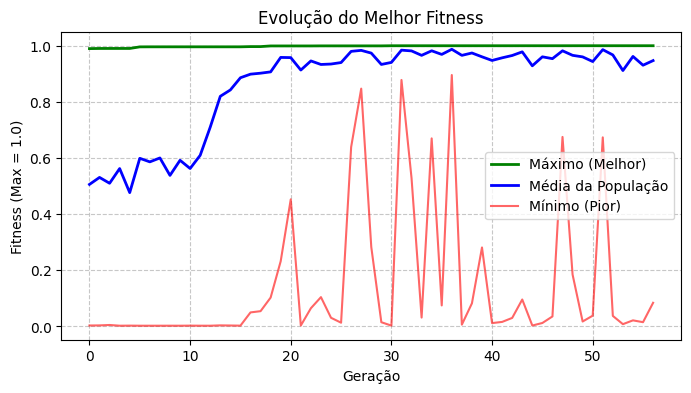
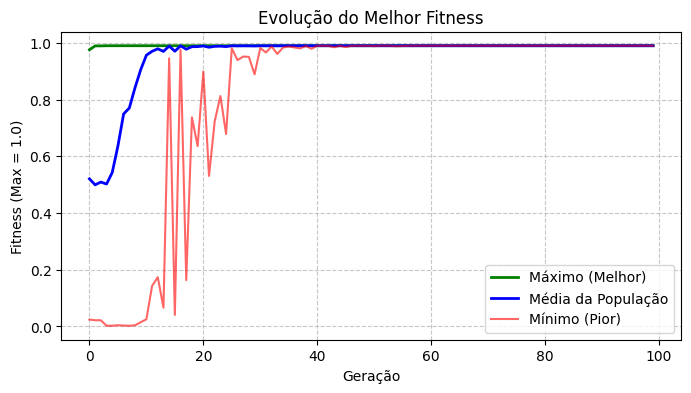
fix: remocao de codigo desnecessario

diff --git a/main.py b/main.py
@@ -59,7 +59,7 @@ def arithmetic_crossover(parent1, parent2):
     
     return (c1_x, c1_y), (c2_x, c2_y)
 
-def gaussian_mutation(individual, mutation_rate, min_val, max_val, mu=0, sigma=1.0):
+def gaussian_mutation(individual, mutation_rate, min_val, max_val, arit_mu=0, sigma=1.0):
     """
     Aplica mutação gaussiana a um indivíduo com probabilidade mutation_rate.
     Também inclui mutação uniforme (com 10% de chance dentro da mutação) para varrer todo o espaço.
@@ -67,18 +67,12 @@ def gaussian_mutation(individual, mutation_rate, min_val, max_val, mu=0, sigma=1
     mutated_x, mutated_y = individual[0], individual[1]
     
     if random.random() < mutation_rate:
-        if random.random() < 0.01:
-            mutated_x = random.uniform(min_val, max_val)
-        else:
-            mutated_x += random.gauss(mu, sigma)
-            mutated_x = max(min_val, min(mutated_x, max_val)) 
+        mutated_x += random.gauss(arit_mu, sigma)
+        mutated_x = max(min_val, min(mutated_x, max_val)) 
    
     if random.random() < mutation_rate:
-        if random.random() < 0.01:
-            mutated_y = random.uniform(min_val, max_val)
-        else:
-            mutated_y += random.gauss(mu, sigma)
-            mutated_y = max(min_val, min(mutated_y, max_val))
+        mutated_y += random.gauss(arit_mu, sigma)
+        mutated_y = max(min_val, min(mutated_y, max_val))
         
     return (mutated_x, mutated_y)
 
@@ -94,7 +88,7 @@ def main():
     min_val = -10.0
     max_val = 10.0
     pop_size = 150  # População maior para maior diversidade e evitar ótimos locais
-    mutation_rate = 0.2  # 20% de chance de mutação por gene
+    mutation_rate = 0.02  # chance de mutação por gene
     mutation_sigma_initial = 3.0 # Sigma inicial alto para exploração
     mutation_sigma_final = 0.0001 # Sigma final muito mais baixo para permitir convergência exata (fine-tuning)
     max_generations = 100 # Aumentado para dar tempo para explorar os ótimos locais
@@ -138,19 +132,6 @@ def main():
         
         # --- Elitismo e Busca Local (Algoritmo Memético) ---
         best_ind = max(pop, key=lambda ind: schafferF6(ind[0], ind[1]))
-        
-        # Faz uma micro-busca local no entorno do melhor indivíduo
-        # Isso garante que ele suba o pico exato caso pouse perto (fine-tuning extremo)
-        for _ in range(20):
-            test_x = best_ind[0] + random.gauss(0, current_mutation_sigma)
-            test_y = best_ind[1] + random.gauss(0, current_mutation_sigma)
-            test_x = max(min_val, min(test_x, max_val))
-            test_y = max(min_val, min(test_y, max_val))
-            best_fitness_val = schafferF6(best_ind[0], best_ind[1])
-            test_fitness_val = schafferF6(test_x, test_y)
-            if test_fitness_val > best_fitness_val:
-                best_ind = (test_x, test_y)
-                
         next_generation.append(best_ind)
         
         # --- Crossover ---
